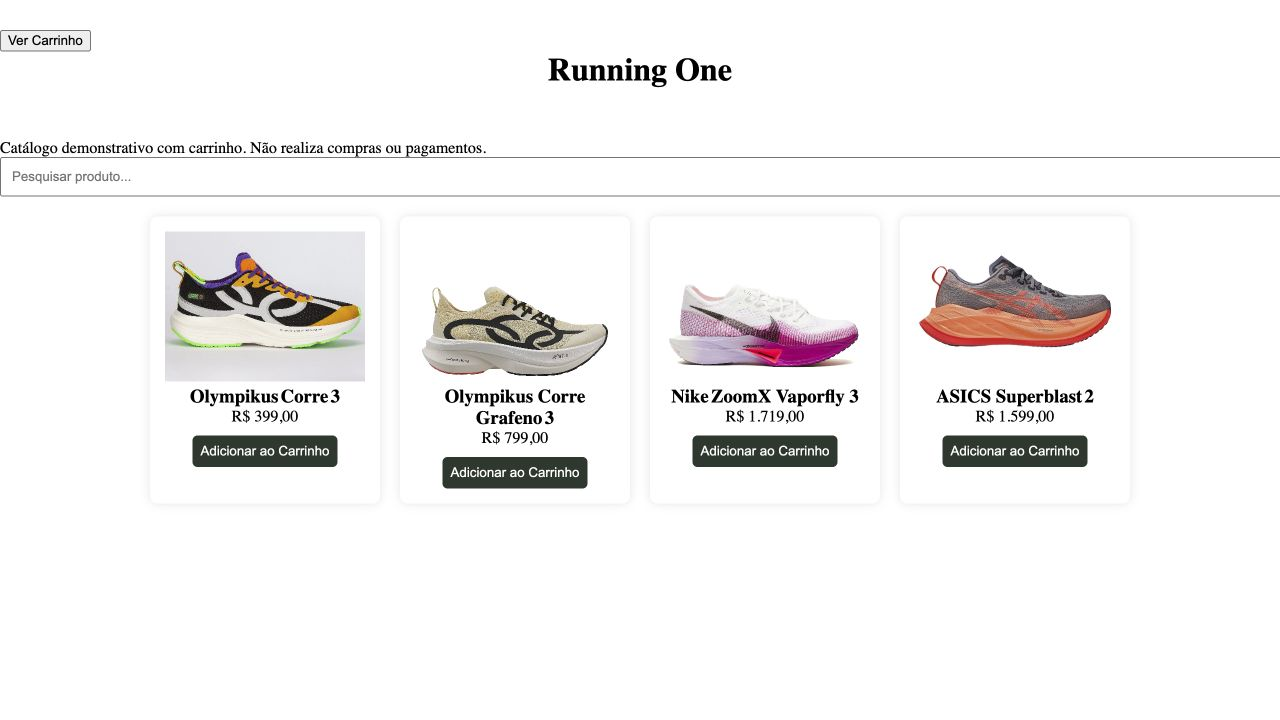
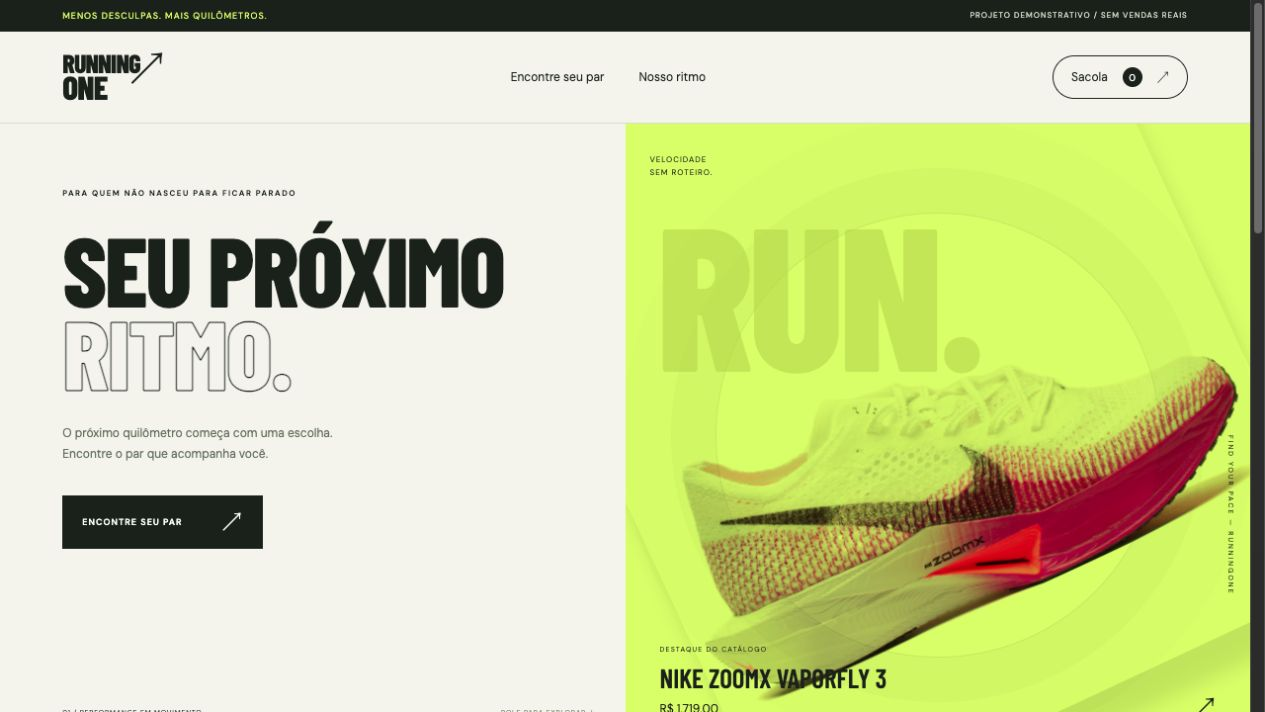
Refaz RunningOne com catálogo responsivo e sacola por numeração

diff --git a/style.css b/style.css
@@ -1,111 +1,4 @@
-* {
-    margin: 0;
-    }
-    /* Estilos dos títulos */
-    h1, h2 {
-    text-align: center;
-    margin-bottom: 50px;
-    }
-    /* Estilo da barra de pesquisa */
-    #barraPesquisa {
-    width: 100%;
-    padding: 10px;
-    margin-bottom: 20px;
-    }
-    #botaoCarrinho {
-    margin-top: 30px;
-    }
-    /* Container dos produtos */
-    #produtos {
-    display: flex;
-    flex-wrap: wrap;
-    gap: 20px;
-    justify-content: center;
-    }
-    /* Estilo dos cards de produtos */
-    .card {
-    background: white;
-    padding: 15px;
-    border-radius: 8px;
-    width: 200px;
-    box-shadow: 0 0 10px rgba(0,0,0,0.1);
-    text-align: center;
-    }
-    /* Estilo das imagens dos produtos */
-    .card img {
-    width: 100%;
-    height: 150px;
-    object-fit: cover;
-    }
-    /* Estilo dos botões dos produtos */
-    .card button {
-    background-color: #253529;
-    color: white;
-    border: none;
-    margin-top: 10px;
-    padding: 8px;
-    border-radius: 5px;
-    cursor: pointer;
-    }
-    /* Container do carrinho */
-    #carrinho {
-    margin-top: 20px;
-    max-width: 800px;
-    margin-left: auto;
-    margin-right: auto;
-    }
-    /* Cabeçalho do carrinho */
-    .cabecalho-carrinho {
-    display: grid;
-    grid-template-columns: 2fr 1fr 1fr 1fr;
-    background: #f8f9fa;
-    padding: 10px;
-    margin-bottom: 10px;
-    border-radius: 5px;
-    font-weight: bold;
-    text-align: center;
-    }
-    /* Lista de itens do carrinho */
-    #listaCarrinho {
-    list-style: none;
-    padding: 0;
-    }
-    /* Itens individuais do carrinho */
-    #listaCarrinho li {
-    background: white;
-    margin-bottom: 10px;
-    padding: 10px;
-    border-radius: 5px;
-    display: grid;
-    grid-template-columns: 2fr 1fr 1fr 1fr;
-    align-items: center;
-    text-align: center;
-    }
-    /* Estilo dos botões do carrinho */
-    #listaCarrinho button {
-    color: white;
-    border: none;
-    padding: 5px 10px;
-    border-radius: 5px;
-    cursor: pointer;
-    margin: 0 2px;
-    }
-    /* Botão de aumentar quantidade */
-    #listaCarrinho button.aumentar {
-    background-color: #28a745;
-    }
-    /* Botão de diminuir quantidade */
-    #listaCarrinho button.diminuir {
-    background-color: #ffc107;
-    }
-    /* Botão de remover item */
-    #listaCarrinho button.remover {
-    background-color: #dc3545;
-    }
-    /* Estilo do total do carrinho */
-    #totalCarrinho {
-    text-align: right;
-    font-weight: bold;
-    margin-top: 20px;
-    font-size: 1.2em;
-    }
+:root{--ink:#1a211a;--lime:#d9ff68;--paper:#f4f4ed;--line:#d8dcd1;--body:'DM Sans',sans-serif;--display:'Barlow Condensed',sans-serif}*{box-sizing:border-box;margin:0}html{scroll-behavior:smooth;scroll-padding-top:100px}body{font-family:var(--body);background:var(--paper);color:var(--ink)}a{color:inherit;text-decoration:none}button,input,select{font:inherit}button{cursor:pointer;color:inherit}button:focus-visible,a:focus-visible,input:focus-visible,select:focus-visible{outline:3px solid #5d79d5;outline-offset:4px}[hidden]{display:none!important}.announcement{background:var(--ink);color:var(--lime);padding:10px 5%;display:flex;justify-content:space-between;font-size:9px;letter-spacing:1px}.announcement>span{font-size:8px;color:#d4dacd}header{height:93px;display:flex;align-items:center;justify-content:space-between;padding:0 5%;border-bottom:1px solid var(--line);gap:25px;background:var(--paper)}.logo{font:800 26px/.8 var(--display);letter-spacing:-.8px;position:relative;display:grid;padding-right:24px}.logo>span{font-size:33px}.logo i{position:absolute;right:0;top:0;font-size:35px;font-style:normal}header nav{display:flex;gap:35px;font-size:12px}.bag-button{padding:11px 18px;border:1px solid #1b241b;border-radius:30px;background:none;font-size:12px;display:flex;gap:15px;align-items:center}.bag-button span{width:20px;height:20px;background:var(--ink);color:white;border-radius:50%;display:grid;place-items:center;font-size:10px}.hero{display:grid;grid-template-columns:1fr 1fr;min-height:570px}.hero-copy{padding:65px 0 30px 10%;display:flex;flex-direction:column;align-items:flex-start;position:relative;z-index:2}.eyebrow{font-size:8px;letter-spacing:1.5px;font-weight:600}.hero h1{font:800 clamp(65px,7.7vw,118px)/.85 var(--display);letter-spacing:-2px;margin:30px 0}.hero h1>span{-webkit-text-stroke:1.5px var(--ink);color:transparent}.hero-copy>p:not(.eyebrow){font-size:12px;line-height:1.8;color:#66705c;margin-bottom:30px}.primary{border:0;padding:17px 20px;background:var(--ink);color:white;display:flex;align-items:center;justify-content:space-between;gap:40px;font-size:9px;letter-spacing:1px;font-weight:600;transition:background .2s,transform .2s}.primary span{font-size:20px;line-height:1}.primary:hover{background:#3b4e28;transform:translateY(-2px)}.hero-bottom{display:flex;justify-content:space-between;gap:20px;width:100%;margin-top:auto;padding-top:50px;font-size:7px;letter-spacing:.8px;padding-right:30px}.hero-bottom>span:last-child{color:#79836d}.hero-art{background:var(--lime);position:relative;overflow:hidden;isolation:isolate;display:flex;align-items:center;justify-content:center}.hero-circle{position:absolute;width:450px;height:450px;border:1px solid #3d4b2420;border-radius:50%;box-shadow:0 0 0 45px #4f612209,0 0 0 95px #4f612205}.hero-outline{position:absolute;left:5%;top:14%;font:800 16vw/.8 var(--display);color:#b5d84b;letter-spacing:-6px;opacity:.65}.hero-art>img{position:relative;z-index:2;width:100%;max-width:630px;mix-blend-mode:multiply;transform:rotate(-25deg) translate(0,-10px);filter:drop-shadow(0 35px 10px #25351122);animation:float 6s ease-in-out infinite}.hero-coordinate{position:absolute;left:25px;top:30px;font-size:8px;letter-spacing:1px;line-height:1.6}.hero-product{position:absolute;left:35px;right:35px;bottom:28px;display:grid;gap:8px;z-index:3}.hero-product>span:first-child{font-size:7px;letter-spacing:1.2px}.hero-product strong{font:600 27px var(--display)}.hero-product>span:last-child{display:flex;justify-content:space-between;font-size:12px}.hero-product a{font-size:26px;line-height:.7}.vertical{position:absolute;right:15px;top:50%;writing-mode:vertical-rl;font-size:7px;letter-spacing:2px}@keyframes float{50%{transform:rotate(-20deg) translate(0,-25px)}}.marquee{overflow:hidden;background:var(--ink);color:var(--paper);padding:16px 0;font:600 24px var(--display);letter-spacing:1px}.marquee>div{width:max-content;animation:marquee 30s linear infinite}.marquee span{padding:0 30px;color:var(--lime)}@keyframes marquee{to{transform:translateX(-50%)}}.catalog{padding:85px 5%}.section-head{display:flex;justify-content:space-between;align-items:flex-end;gap:25px}.section-head h2{font:700 57px/.9 var(--display);letter-spacing:-1px;margin-top:20px}.section-head h2 span{color:#79836e}.section-head>p{font-size:11px;line-height:1.8;color:#6c745f}.catalog-toolbar{border-top:1px solid var(--line);border-bottom:1px solid var(--line);padding:20px 0;margin:35px 0 15px;display:flex;align-items:center;justify-content:space-between;gap:20px}.brand-filters{display:flex;gap:5px}.brand-filters button{border:0;background:none;border-radius:25px;padding:10px 15px;font-size:11px;color:#6b765f}.brand-filters .active{color:var(--paper);background:var(--ink)}.search-sort{display:flex;gap:12px;align-items:center}.search{display:flex;align-items:center;gap:8px;border-bottom:1px solid #a9b19d;padding:8px 0}.search input{background:none;outline:none;border:0;font-size:10px;width:155px;color:var(--ink)}select{background:none;border:1px solid var(--line);padding:9px;font-size:10px;color:#5d6952;max-width:140px}.result-count{font-size:9px;color:#7a836e;margin-bottom:22px}.products{display:grid;grid-template-columns:repeat(4,minmax(0,1fr));gap:20px}.product-card{min-width:0}.product-image{position:relative;background:#e8ece0;aspect-ratio:1/1.12;width:100%;border:0;overflow:hidden;display:grid;place-items:center}.product-image img{width:95%;mix-blend-mode:multiply;transition:transform .4s;filter:drop-shadow(0 10px 5px #19281715)}.product-image:hover img{transform:rotate(-10deg) scale(1.06)}.product-tag{position:absolute;top:15px;left:15px;z-index:2;font-size:7px;letter-spacing:.7px;border:1px solid #76806560;border-radius:20px;padding:6px 9px}.product-plus{position:absolute;bottom:15px;right:15px;height:33px;width:33px;border-radius:50%;display:grid;place-items:center;background:var(--ink);color:white;font-size:20px}.product-brand{font-size:8px;letter-spacing:1px;color:#808873;margin:19px 0 7px}.product-card h3{font-size:13px;line-height:1.5;font-weight:600;margin-bottom:10px;min-height:39px}.product-foot{display:flex;justify-content:space-between;font-size:11px}.product-foot span{color:#87907b;font-size:9px}.empty{text-align:center;padding:60px 0}.empty h3{font-size:22px}.empty p{font-size:13px;color:#6a775d;margin:15px}.empty button{background:var(--ink);color:white;border:0;padding:12px 22px;font-size:11px}.manifesto{background:#e2e9d6;padding:75px 6%;position:relative;display:grid;grid-template-columns:1.25fr 1fr;gap:25px;align-items:center}.manifesto>span{font-size:8px;letter-spacing:2px;grid-column:1/-1}.manifesto h2{font:700 75px/.85 var(--display);letter-spacing:-1px}.manifesto h2 em{font-style:normal;color:#7a8a5d}.manifesto p{font-size:12px;line-height:1.9;color:#596749}.manifesto>a{grid-column:2;font-size:9px;border-bottom:1px solid #869674;width:max-content;padding-bottom:9px}footer{display:flex;align-items:center;justify-content:space-between;gap:30px;padding:40px 5%}footer p{font-size:8px;line-height:1.8;color:#7d8872}footer>a:last-child{font-size:10px}dialog{border:0;max-height:90vh;overflow:auto;color:var(--ink);background:var(--paper);padding:0;width:min(850px,92vw);margin:auto}dialog::backdrop{background:#10170fbb;backdrop-filter:blur(6px)}.close-dialog{position:absolute;right:15px;top:15px;z-index:5;border:0;background:#ffffffbb;border-radius:50%;width:35px;height:35px}.product-dialog-grid{display:grid;grid-template-columns:1fr 1fr}.product-photo{background:#e5ead9;display:grid;place-items:center;padding:20px}.product-photo img{width:100%;mix-blend-mode:multiply}.product-details{padding:48px 30px 30px}.product-details h2{font:600 38px/1 var(--display);margin:20px 0}.product-details>p:not(.eyebrow){font-size:11px;color:#738064;line-height:1.8}.product-price{display:block;font-size:20px;margin:25px 0}fieldset{border:0;padding:0}legend{font-size:8px;letter-spacing:1px;margin-bottom:12px}.sizes{display:grid;grid-template-columns:repeat(4,1fr);gap:7px}.sizes button{padding:10px;background:none;border:1px solid #bfc8b1;font-size:11px}.sizes button[aria-pressed=true]{background:var(--ink);color:white;border-color:var(--ink)}.error{min-height:25px;font-size:10px!important;color:#a13920!important;margin-top:8px}.product-details>.primary{width:100%}.product-details small{display:block;font-size:8px;color:#7f8973;margin-top:15px}#bag-dialog{position:fixed;inset:0 0 0 auto;margin:0;height:100dvh;max-height:100dvh;width:min(480px,100vw);padding:30px;display:none;flex-direction:column}#bag-dialog[open]{display:flex}.bag-head{display:flex;justify-content:space-between;align-items:center;gap:20px;border-bottom:1px solid var(--line);padding-bottom:22px}.bag-head h2{font:600 39px var(--display);margin-top:10px}.close-inline{border:0;background:none;font-size:20px}#bag-items{flex:1;overflow:auto}.bag-empty{padding:60px 20px;text-align:center;font-size:14px;color:#748267;line-height:1.8}.bag-item{display:grid;grid-template-columns:90px 1fr;gap:15px;padding:22px 0;border-bottom:1px solid var(--line)}.bag-item>img{width:90px;height:100px;object-fit:contain;background:#e6ebdd;mix-blend-mode:multiply}.bag-item h3{font-size:12px;margin:3px 0 7px}.bag-item p{font-size:9px;color:#7a886c}.bag-item-price{display:block;margin:9px 0;font-size:12px}.bag-quantity{display:flex;gap:10px;align-items:center;font-size:11px}.bag-quantity button{width:25px;height:25px;background:none;border:1px solid #c0c9b3}.bag-quantity .remove{width:auto;border:0;color:#87917b;font-size:9px;margin-left:auto}.bag-summary{padding-top:25px;border-top:1px solid var(--line)}.bag-summary>div{display:flex;justify-content:space-between;align-items:center;font-size:10px}.bag-summary strong{font-size:23px}.bag-summary>p{font-size:9px;color:#7d8970;line-height:1.8;margin:15px 0 20px}.bag-summary .primary{width:100%}.toast{position:fixed;bottom:25px;left:50%;transform:translate(-50%,20px);background:var(--ink);color:var(--lime);font-size:12px;padding:15px 23px;border-radius:4px;z-index:20;opacity:0;pointer-events:none;transition:.25s;max-width:90vw;text-align:center}.toast.show{opacity:1;transform:translate(-50%,0)}body.modal-open{overflow:hidden}
+@media(max-width:1000px){.hero h1{font-size:85px}.hero{min-height:520px}.hero-copy{padding-top:50px}.products{grid-template-columns:repeat(2,minmax(0,1fr));gap:35px 20px}.catalog-toolbar{align-items:flex-start;flex-direction:column}.search-sort{width:100%;justify-content:space-between}.search{flex:1}.search input{width:100%}.section-head h2{font-size:50px}.hero-bottom>span:last-child{display:none}}
+@media(max-width:600px){.announcement{justify-content:center;font-size:7px;padding:9px}.announcement>span{display:none}header{height:75px;padding:0 5%}header nav{display:none}.logo{font-size:21px}.logo span{font-size:26px}.logo i{font-size:28px}.bag-button{font-size:10px;padding:9px 12px;gap:10px}.hero{grid-template-columns:1fr}.hero-copy{padding:40px 6% 25px}.hero h1{font-size:84px;margin:25px 0}.hero-copy>p:not(.eyebrow){font-size:12px}.hero .eyebrow{font-size:6.5px;letter-spacing:1px}.hero-bottom{padding-top:30px;font-size:6px}.hero-art{height:380px}.hero-art>img{width:90%}.hero-outline{font-size:160px}.hero-circle{width:280px;height:280px}.hero-product{left:25px;bottom:25px}.hero-product strong{font-size:24px}.hero-product>span:last-child{font-size:11px}.hero-coordinate{font-size:6px}.vertical{font-size:6px}.catalog{padding:55px 5%}.section-head{display:block}.section-head h2{font-size:43px}.section-head>p{font-size:11px;margin-top:20px}.brand-filters{gap:3px;flex-wrap:wrap}.brand-filters button{font-size:10px;padding:9px 12px}.search-sort{gap:10px}select{max-width:110px;font-size:9px}.search input{font-size:10px;min-width:0}.products{gap:30px 12px}.product-tag{font-size:5px;left:9px;top:10px;padding:5px 7px}.product-plus{width:26px;height:26px;right:10px;bottom:10px;font-size:16px}.product-card h3{font-size:11px;min-height:34px}.product-brand{font-size:7px}.product-foot{font-size:10px}.product-foot>span{display:none}.product-image{aspect-ratio:1/1.2}.manifesto{padding:50px 6%;grid-template-columns:1fr}.manifesto h2{font-size:63px}.manifesto p{font-size:11px}.manifesto>a{grid-column:1;font-size:8px}footer{flex-wrap:wrap;gap:20px}footer p{font-size:7px;max-width:200px}footer>a:last-child{font-size:9px}.product-dialog-grid{grid-template-columns:1fr}.product-photo{height:230px}.product-photo img{height:210px;object-fit:contain}.product-details{padding:25px}.product-details h2{font-size:34px;margin:15px 0}.product-price{margin:20px 0}.sizes{grid-template-columns:repeat(8,1fr);gap:4px}.sizes button{padding:8px 0;font-size:9px}.product-details .eyebrow{font-size:7px}.product-details small{font-size:7px}.product-dialog-grid .error{font-size:9px!important}#bag-dialog{padding:25px}.bag-summary strong{font-size:20px}.bag-head h2{font-size:35px}.marquee{font-size:20px;padding:13px 0}}
+@media(prefers-reduced-motion:reduce){html{scroll-behavior:auto}*,*::before,*::after{animation:none!important;transition:none!important}}

diff --git a/script.js b/script.js
@@ -1,115 +1,12 @@
-const moeda = valor => valor.toLocaleString("pt-BR", {style: "currency", currency: "BRL"})
-//Criando Array com os produtos
-const listaProdutos = [
-    {id: 1, nome: "Olympikus Corre 3", preco: 399, imagem: "Corre3.png"},
-    {id: 2, nome: "Olympikus Corre Grafeno 3", preco: 799, imagem: "G-Corre3.png"},
-    {id: 3, nome: "Nike ZoomX Vaporfly 3", preco: 1719, imagem: "Nike.png"},
-    {id: 4, nome: "ASICS Superblast 2", preco: 1599, imagem: "Asics.webp"}
-]
-//Pegando elementos do HTML
-const containerProdutos = document.getElementById("produtos")
-const barraPesquisa = document.getElementById("barraPesquisa")
-const listCarrinho = document.getElementById("listaCarrinho")
-const botaoCarrinho = document.getElementById("botaoCarrinho")
-const botaoLoja = document.getElementById("botaoLoja")
-const divCarrinho = document.getElementById("carrinho")
-const totalCarrinho = document.getElementById("totalCarrinho")
-//Carrinho de compras
-let carrinho = []
-//Função que mostra os produtos
-function mostrarProdutos(lista){
-    containerProdutos.innerHTML = ""
-    lista.forEach(produto => {
-        const card = document.createElement("div")
-        card.className = "card"
-        card.innerHTML = `
-        <img src="${produto.imagem}" alt ="${produto.nome}">
-        <h3>${produto.nome}</h3>
-        <p>${moeda(produto.preco)}</p>
-        <button onclick="adicionaCarrinho(${produto.id})">Adicionar ao Carrinho</button>
-        `
-        containerProdutos.appendChild(card)
-    })
-}
-//Adicioar ao carrinho
-function adicionaCarrinho(idProduto){
-    const produtoSelecionado = listaProdutos.find(prod => prod.id === idProduto)
-    if (!produtoSelecionado) return
-    const itemExistente = carrinho.find(item => item.id === idProduto)
-    if(itemExistente){
-        itemExistente.quantidade += 1
-} else {
-    carrinho.push({...produtoSelecionado, quantidade: 1})
-}
-atualizarCarrinho()
-}
-//Diminuir a quantidade no carrinho
-function diminuirQuantidade(idProduto){
-    const itemExistente = carrinho.find(item => item.id === idProduto)
-    if(itemExistente){
-        itemExistente.quantidade -= 1
-        if(itemExistente.quantidade <= 0){
-            removerDoCarrinho(idProduto)
-            return
-        }
-        atualizarCarrinho()
-    }
-}
-//Remover do carrinho
-function removerDoCarrinho(idProduto){
-    carrinho = carrinho.filter(item => item.id !== idProduto)
-    atualizarCarrinho()
-}
-//Atualizar Carrinho
-function atualizarCarrinho(){
-    listCarrinho.innerHTML = ""
-    carrinho.forEach(item => {
-        const li = document.createElement("li")
-        li.innerHTML = `
-        <span>${item.nome}</span>
-        <span>${item.quantidade}</span>
-        <span>${moeda(item.preco * item.quantidade)}</span>
-        <span> 
-            <button class="aumentar" onclick="adicionaCarrinho(${item.id})">+</button>
-            <button class="diminuir" onclick="diminuirQuantidade(${item.id})">-</button>
-            <button class="remover" onclick="removerDoCarrinho(${item.id})">Remover</button>
-            </span>
-            `
-            listCarrinho.appendChild(li)
-    })
-    calcularTotal()
-}
-//Calcular Total  pagar
-function calcularTotal(){
-    let total = 0
-    carrinho.forEach(item => {
-        total += item.preco * item.quantidade
-    })
-    totalCarrinho.innerHTML = `<strong> Total: ${moeda(total)}</strong>`
-}
-//Barra de pesquisa
-barraPesquisa.addEventListener("input", () => {
-    const textoPesquisa = barraPesquisa.value.toLowerCase()
-    const produtosFiltrados = listaProdutos.filter(produtos => produtos.nome.toLowerCase().includes(textoPesquisa)
-)
-mostrarProdutos(produtosFiltrados)
-}) 
-//Botão Ver Carrinho
-botaoCarrinho.addEventListener("click", () => {
-    containerProdutos.style.display = "none"
-    barraPesquisa.style.display = "none"
-    divCarrinho.style.display = "block"
-    botaoCarrinho.style.display = "none"
-    botaoLoja.style.display = "inline"
-})
-//Botão voltar para a loja
-botaoLoja.addEventListener("click", () => {
-    containerProdutos.style.display = "flex"
-    barraPesquisa.style.display = "block"
-    divCarrinho.style.display = "none"
-    botaoCarrinho.style.display = "inline"
-    botaoLoja.style.display = "none"
-})
-//inicialização
-mostrarProdutos(listaProdutos)
-atualizarCarrinho()
+const products=[{id:1,name:'Olympikus Corre 3',brand:'Olympikus',price:399,image:'Corre3.png',tag:'SEU TREINO DIÁRIO',description:'Um modelo do catálogo para acompanhar o próximo passo da sua rotina.'},{id:2,name:'Olympikus Corre Grafeno 3',brand:'Olympikus',price:799,image:'G-Corre3.png',tag:'UM PASSO ALÉM',description:'Uma das opções da seleção RunningOne. Explore as numerações e monte sua sacola.'},{id:3,name:'Nike ZoomX Vaporfly 3',brand:'Nike',price:1719,image:'Nike.png',tag:'RITMO ACELERADO',description:'O destaque visual desta seleção. Um projeto demonstrativo, sem estoque ou venda real.'},{id:4,name:'ASICS Superblast 2',brand:'ASICS',price:1599,image:'Asics.webp',tag:'VÁ MAIS LONGE',description:'Outra escolha para o seu catálogo de corrida. Compare os modelos e experimente o carrinho.'}];
+const $=s=>document.querySelector(s),money=v=>v.toLocaleString('pt-BR',{style:'currency',currency:'BRL'});let brand='all',selected=null,size=null,toastTimer,bag=[];
+try{const stored=JSON.parse(localStorage.getItem('runningone-bag-v2')||'[]');if(Array.isArray(stored))bag=stored.filter(i=>products.some(p=>p.id===i.id)&&Number.isInteger(i.size)&&i.size>=37&&i.size<=44&&Number.isInteger(i.quantity)&&i.quantity>0&&i.quantity<=99);}catch{}
+function save(){try{localStorage.setItem('runningone-bag-v2',JSON.stringify(bag));}catch{notify('A sacola funciona nesta sessão, mas não pôde ser salva no navegador.');}}
+function notify(text){$('#toast').textContent=text;$('#toast').classList.add('show');clearTimeout(toastTimer);toastTimer=setTimeout(()=>$('#toast').classList.remove('show'),2800);}
+function renderProducts(){const term=$('#search').value.trim().toLocaleLowerCase('pt-BR');let filtered=products.filter(p=>(brand==='all'||p.brand===brand)&&p.name.toLocaleLowerCase('pt-BR').includes(term));if($('#sort').value==='low')filtered.sort((a,b)=>a.price-b.price);if($('#sort').value==='high')filtered.sort((a,b)=>b.price-a.price);$('#products').replaceChildren();filtered.forEach(p=>{const card=document.createElement('article');card.className='product-card';card.innerHTML=`<button class="product-image" aria-label="Ver ${p.name}" data-product="${p.id}"><span class="product-tag">${p.tag}</span><img src="${p.image}" alt="${p.name}" loading="lazy"><span class="product-plus">+</span></button><p class="product-brand">${p.brand.toUpperCase()}</p><h3>${p.name}</h3><div class="product-foot"><strong>${money(p.price)}</strong><span>37 — 44</span></div>`;$('#products').append(card);});$('#result-count').textContent=`${filtered.length} ${filtered.length===1?'modelo encontrado':'modelos encontrados'}`;$('#empty-search').hidden=filtered.length>0;}
+function openProduct(id){selected=products.find(p=>p.id===id);if(!selected)return;size=null;$('#product-title').textContent=selected.name;$('#product-brand').textContent=selected.brand.toUpperCase()+' / '+selected.tag;$('#product-price').textContent=money(selected.price);$('#product-description').textContent=selected.description;$('#product-image').src=selected.image;$('#product-image').alt=selected.name;$('#size-error').textContent='';$('#sizes').replaceChildren();for(let n=37;n<=44;n++){const b=document.createElement('button');b.type='button';b.textContent=n;b.setAttribute('aria-label','Número '+n);b.setAttribute('aria-pressed','false');b.addEventListener('click',()=>{size=n;$('#size-error').textContent='';$('#sizes').querySelectorAll('button').forEach(x=>x.setAttribute('aria-pressed',String(x===b)));});$('#sizes').append(b);}$('#product-dialog').showModal();document.body.classList.add('modal-open');}
+function renderBag(){const total=bag.reduce((sum,i)=>sum+products.find(p=>p.id===i.id).price*i.quantity,0);$('#bag-count').textContent=bag.reduce((sum,i)=>sum+i.quantity,0);$('#bag-total').textContent=money(total);$('#bag-items').replaceChildren();if(!bag.length){const p=document.createElement('p');p.className='bag-empty';p.textContent='Sua próxima corrida começa aqui. Escolha um modelo para montar a sua sacola.';$('#bag-items').append(p);}bag.forEach(i=>{const p=products.find(p=>p.id===i.id);const card=document.createElement('article');card.className='bag-item';card.innerHTML=`<img src="${p.image}" alt="${p.name}"><div><h3>${p.name}</h3><p>TAMANHO ${i.size}</p><strong class="bag-item-price">${money(p.price*i.quantity)}</strong><div class="bag-quantity"><button data-action="minus" data-id="${i.id}" data-size="${i.size}" aria-label="Diminuir quantidade de ${p.name}">−</button><span>${i.quantity}</span><button data-action="plus" data-id="${i.id}" data-size="${i.size}" aria-label="Aumentar quantidade de ${p.name}">+</button><button class="remove" data-action="remove" data-id="${i.id}" data-size="${i.size}" aria-label="Remover ${p.name}">Remover</button></div></div>`;$('#bag-items').append(card);});}
+$('#products').addEventListener('click',e=>{const b=e.target.closest('[data-product]');if(b)openProduct(Number(b.dataset.product));});$('#search').addEventListener('input',renderProducts);$('#sort').addEventListener('change',renderProducts);document.querySelectorAll('[data-brand]').forEach(b=>b.addEventListener('click',()=>{brand=b.dataset.brand;document.querySelectorAll('[data-brand]').forEach(x=>{x.classList.toggle('active',x===b);x.setAttribute('aria-pressed',String(x===b));});renderProducts();}));$('#clear-filters').addEventListener('click',()=>{$('#search').value='';document.querySelector('[data-brand="all"]').click();});
+$('#add-to-bag').addEventListener('click',()=>{if(!selected)return;if(!size){$('#size-error').textContent='Escolha uma numeração para continuar.';return;}const item=bag.find(i=>i.id===selected.id&&i.size===size);if(item){if(item.quantity>=99){notify('O limite demonstrativo é de 99 unidades por item.');return;}item.quantity++;}else bag.push({id:selected.id,size,quantity:1});save();renderBag();$('#product-dialog').close();notify('Pronto! Seu modelo foi adicionado à sacola.');});
+$('#open-bag').addEventListener('click',()=>{renderBag();$('#bag-dialog').showModal();document.body.classList.add('modal-open');});$('#continue-shopping').addEventListener('click',()=>$('#bag-dialog').close());$('#bag-items').addEventListener('click',e=>{const b=e.target.closest('[data-action]');if(!b)return;const i=bag.find(x=>x.id===Number(b.dataset.id)&&x.size===Number(b.dataset.size));if(!i)return;if(b.dataset.action==='remove')bag=bag.filter(x=>x!==i);if(b.dataset.action==='minus'){i.quantity--;bag=bag.filter(x=>x.quantity>0);}if(b.dataset.action==='plus'){if(i.quantity>=99){notify('O limite demonstrativo é de 99 unidades por item.');return;}i.quantity++;}save();renderBag();});
+document.querySelectorAll('[data-close]').forEach(b=>b.addEventListener('click',()=>document.getElementById(b.dataset.close).close()));document.querySelectorAll('dialog').forEach(d=>{d.addEventListener('close',()=>document.body.classList.toggle('modal-open',!!document.querySelector('dialog[open]')));d.addEventListener('click',e=>{if(e.target===d){const r=d.getBoundingClientRect();if(e.clientX<r.left||e.clientX>r.right||e.clientY<r.top||e.clientY>r.bottom)d.close();}});});renderProducts();renderBag();

diff --git a/index.html b/index.html
@@ -1,43 +1,8 @@
-<!DOCTYPE html>
-<html lang="pt-BR">
-<head>
-    <meta charset="UTF-8">
-    <meta name="viewport" content="width=device-width, initial-scale=1.0">
-    <title>Running One</title>
-    <link rel="stylesheet" href="style.css">
-</head>
-<body>
-
-  <nav>
-    <div class="container">
-      <button id="botaoCarrinho">Ver Carrinho</button>
-      <button id="botaoLoja" style="display: none;">Voltar à Loja</button>
-    </div>
-  </nav>
-
-  <div class="container">
-
-    <!-- Loja -->
-    <h1>Running One</h1>
-<p>Catálogo demonstrativo com carrinho. Não realiza compras ou pagamentos.</p>
-    <input type="text" aria-label="Pesquisar produto" id="barraPesquisa" placeholder="Pesquisar produto...">
-    <div id="produtos"></div>
-
-    <!-- Carrinho -->
-    <div id="carrinho" style="display: none;">
-      <h2>Carrinho</h2>
-      <div class="cabecalho-carrinho">
-        <span>Produto</span>
-        <span>Quantidade</span>
-        <span>Valor</span>
-        <span>Ações</span>
-      </div>
-      <ul id="listaCarrinho"></ul>
-      <div id="totalCarrinho"></div>
-    </div>
-
-  </div>
-
-  <script src="script.js"></script>
-</body>
-</html>
+<!doctype html><html lang="pt-BR"><head><meta charset="utf-8"><meta name="viewport" content="width=device-width,initial-scale=1"><title>RunningOne — Encontre seu próximo ritmo</title><meta name="description" content="Catálogo demonstrativo de tênis de corrida com pesquisa, filtros e sacola interativa."><meta name="theme-color" content="#171b16"><link rel="preconnect" href="https://fonts.googleapis.com"><link rel="preconnect" href="https://fonts.gstatic.com" crossorigin><link href="https://fonts.googleapis.com/css2?family=Barlow+Condensed:wght@500;600;700;800&family=DM+Sans:wght@400;500;600;700&display=swap" rel="stylesheet"><link rel="stylesheet" href="style.css"></head><body>
+<div class="announcement">MENOS DESCULPAS. MAIS QUILÔMETROS. <span>PROJETO DEMONSTRATIVO / SEM VENDAS REAIS</span></div><header><a class="logo" href="#inicio" aria-label="RunningOne início">RUNNING<span>ONE</span><i>↗</i></a><nav aria-label="Principal"><a href="#catalogo">Encontre seu par</a><a href="#manifesto">Nosso ritmo</a></nav><button id="open-bag" class="bag-button" aria-label="Abrir sacola">Sacola <span id="bag-count">0</span> ↗</button></header>
+<main><section class="hero" id="inicio"><div class="hero-copy"><p class="eyebrow">PARA QUEM NÃO NASCEU PARA FICAR PARADO</p><h1>SEU PRÓXIMO<br><span>RITMO.</span></h1><p>O próximo quilômetro começa com uma escolha.<br>Encontre o par que acompanha você.</p><a class="primary" href="#catalogo">ENCONTRE SEU PAR <span>↗</span></a><div class="hero-bottom"><span>01 / PERFORMANCE EM MOVIMENTO</span><span>ROLE PARA EXPLORAR ↓</span></div></div><div class="hero-art"><div class="hero-circle"></div><span class="hero-outline" aria-hidden="true">RUN.</span><img src="Nike.png" alt="Nike ZoomX Vaporfly 3 rosa" fetchpriority="high"><span class="hero-coordinate">VELOCIDADE<br>SEM ROTEIRO.</span><div class="hero-product"><span>DESTAQUE DO CATÁLOGO</span><strong>NIKE ZOOMX VAPORFLY 3</strong><span>R$ 1.719,00 <a href="#catalogo" aria-label="Encontrar Nike no catálogo">↗</a></span></div><span class="vertical">FIND YOUR PACE — RUNNINGONE</span></div></section>
+<div class="marquee" aria-hidden="true"><div>CORRA NO SEU RITMO <span>✳</span> VÁ ALÉM DO ÓBVIO <span>✳</span> CORRA NO SEU RITMO <span>✳</span> VÁ ALÉM DO ÓBVIO <span>✳</span></div></div>
+<section id="catalogo" class="catalog"><div class="section-head"><div><p class="eyebrow">SELEÇÃO / 04 MODELOS</p><h2>ESCOLHA SEU<br><span>PRÓXIMO PASSO.</span></h2></div><p>Quatro modelos. Diferentes caminhos.<br>Uma vontade de seguir em frente.</p></div><div class="catalog-toolbar"><div class="brand-filters" role="group" aria-label="Filtrar por marca"><button data-brand="all" class="active" aria-pressed="true">Todos</button><button data-brand="Olympikus" aria-pressed="false">Olympikus</button><button data-brand="Nike" aria-pressed="false">Nike</button><button data-brand="ASICS" aria-pressed="false">ASICS</button></div><div class="search-sort"><label class="search">⌕ <input id="search" type="search" placeholder="Buscar seu próximo tênis" aria-label="Pesquisar produto"></label><select id="sort" aria-label="Ordenar produtos"><option value="featured">Destaques</option><option value="low">Menor preço</option><option value="high">Maior preço</option></select></div></div><p id="result-count" class="result-count" aria-live="polite"></p><div id="products" class="products"></div><div id="empty-search" class="empty" hidden><h3>Nenhum par por aqui.</h3><p>Tente outra busca ou escolha outra marca.</p><button id="clear-filters">Limpar filtros ↗</button></div></section>
+<section class="manifesto" id="manifesto"><span>UM PASSO DE CADA VEZ.</span><h2>O MELHOR RITMO<br>É O <em>SEU.</em></h2><p>RunningOne é um projeto de interface e interação.<br>Explore produtos, escolha uma numeração e monte sua sacola.<br>Sem vendas, pagamentos ou envio de dados pessoais.</p><a href="#catalogo">VOLTAR PARA A PISTA ↗</a></section></main><footer><a class="logo" href="#inicio">RUNNING<span>ONE</span><i>↗</i></a><p>PROJETO DE ESTUDO DE ABNER GABRIEL.<br>Marcas e imagens pertencem aos seus respectivos titulares.</p><a href="https://github.com/Abnergabrel/runningone-carrinho" target="_blank" rel="noopener noreferrer">Ver código ↗</a></footer>
+<dialog id="product-dialog" aria-labelledby="product-title"><button class="close-dialog" data-close="product-dialog" aria-label="Fechar produto">✕</button><div class="product-dialog-grid"><div class="product-photo"><img id="product-image" alt=""></div><div class="product-details"><p class="eyebrow" id="product-brand"></p><h2 id="product-title"></h2><p id="product-description"></p><strong class="product-price" id="product-price"></strong><fieldset><legend>QUAL É O SEU NÚMERO?</legend><div id="sizes" class="sizes"></div></fieldset><p id="size-error" class="error" role="alert"></p><button id="add-to-bag" class="primary">ADICIONAR À SACOLA <span>+</span></button><small>Catálogo demonstrativo. Sem checkout ou compra real.</small></div></div></dialog>
+<dialog id="bag-dialog" aria-labelledby="bag-title"><div class="bag-head"><div><p class="eyebrow">SEU PRÓXIMO MOVIMENTO</p><h2 id="bag-title">SUA SACOLA.</h2></div><button class="close-inline" data-close="bag-dialog" aria-label="Fechar sacola">✕</button></div><div id="bag-items"></div><div class="bag-summary"><div><span>SUBTOTAL</span><strong id="bag-total">R$ 0,00</strong></div><p>Frete não calculado. Esta é uma demonstração de carrinho, sem pagamentos ou pedidos reais.</p><button class="primary" id="continue-shopping">CONTINUAR EXPLORANDO <span>↗</span></button></div></dialog><div id="toast" class="toast" role="status" aria-live="polite"></div><script src="script.js"></script></body></html>

diff --git a/README.md b/README.md
@@ -1,27 +1,37 @@
-# RunningOne — Catálogo e carrinho
+# RunningOne — Encontre seu próximo ritmo
 
 ![Interface do projeto](preview.jpg)
 
-Simulação de catálogo de tênis com busca, carrinho, quantidade e total em reais.
+Catálogo demonstrativo de tênis de corrida, com identidade esportiva, pesquisa, marcas, ordenação e sacola por numeração.
 
 ## Tecnologias
 
-HTML, CSS e JavaScript, sem instalação de dependências para executar.
+HTML, CSS e JavaScript, sem instalação de dependências. As fontes são carregadas do Google Fonts.
 
 ## Executar
 
-Baixe os arquivos e abra `index.html` em um navegador moderno. Mantenha todos os arquivos na mesma pasta. Também é possível servir a pasta com um servidor HTTP local.
+Baixe os arquivos e abra `index.html` em um navegador moderno, mantendo as imagens, estilos e scripts na mesma pasta. Também é possível servir a pasta em um servidor HTTP local.
 
-## Verificar os fluxos
+## Funcionalidades
 
-1. Pesquise por Nike e confira a filtragem.
-2. Adicione produtos e abra o carrinho.
-3. Aumente e diminua quantidades, remova itens e confira o total.
+- Pesquisa por nome e filtros por marca.
+- Ordenação por preço e estados sem resultados.
+- Seleção de numeração obrigatória.
+- Sacola com quantidade, remoção e subtotal.
+- Persistência local da sacola com validação de formato.
 
-## Escopo e limitações
+## Verificação manual
 
-Os produtos são demonstrativos. Não há checkout, pagamento, autenticação ou persistência do carrinho. Marcas e imagens são usadas no contexto do estudo; não há vínculo comercial declarado.
+1. Buscar Nike e conferir o resultado.
+2. Abrir o produto e tentar adicionar sem numeração: deve ser recusado.
+3. Escolher tamanho, adicionar, aumentar/diminuir e remover.
+4. Recarregar e conferir a sacola.
+5. Buscar algo inexistente e limpar filtros.
 
-## Origem
+## Escopo
 
-Projeto de estudo de [Abner Gabriel](https://github.com/Abnergabrel), separado da pasta [RunningOne](https://github.com/Abnergabrel/JavaScript/tree/main/RunningOne) para apresentação independente. Esta versão recebeu ajustes de funcionamento e documentação. O material original permanece preservado.
+Não há estoque real, checkout, frete, pagamento ou envio de pedidos. As marcas e imagens fazem parte do estudo e pertencem aos titulares. Os dados da sacola ficam somente no navegador.
+
+## Autoria e evolução
+
+Projeto de estudo de [Abner Gabriel](https://github.com/Abnergabrel). Versão reformulada em 26/10/2026, mantendo o histórico do repositório.
